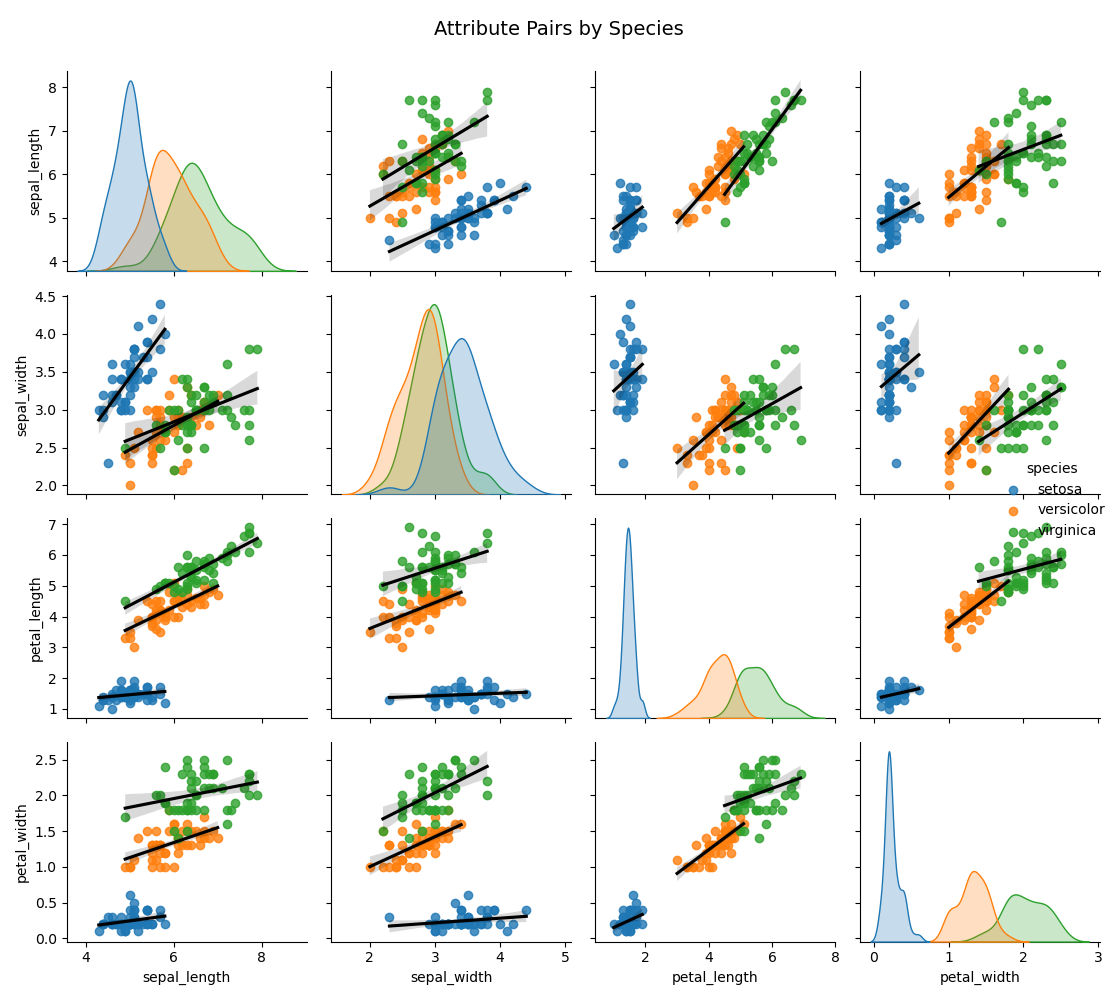
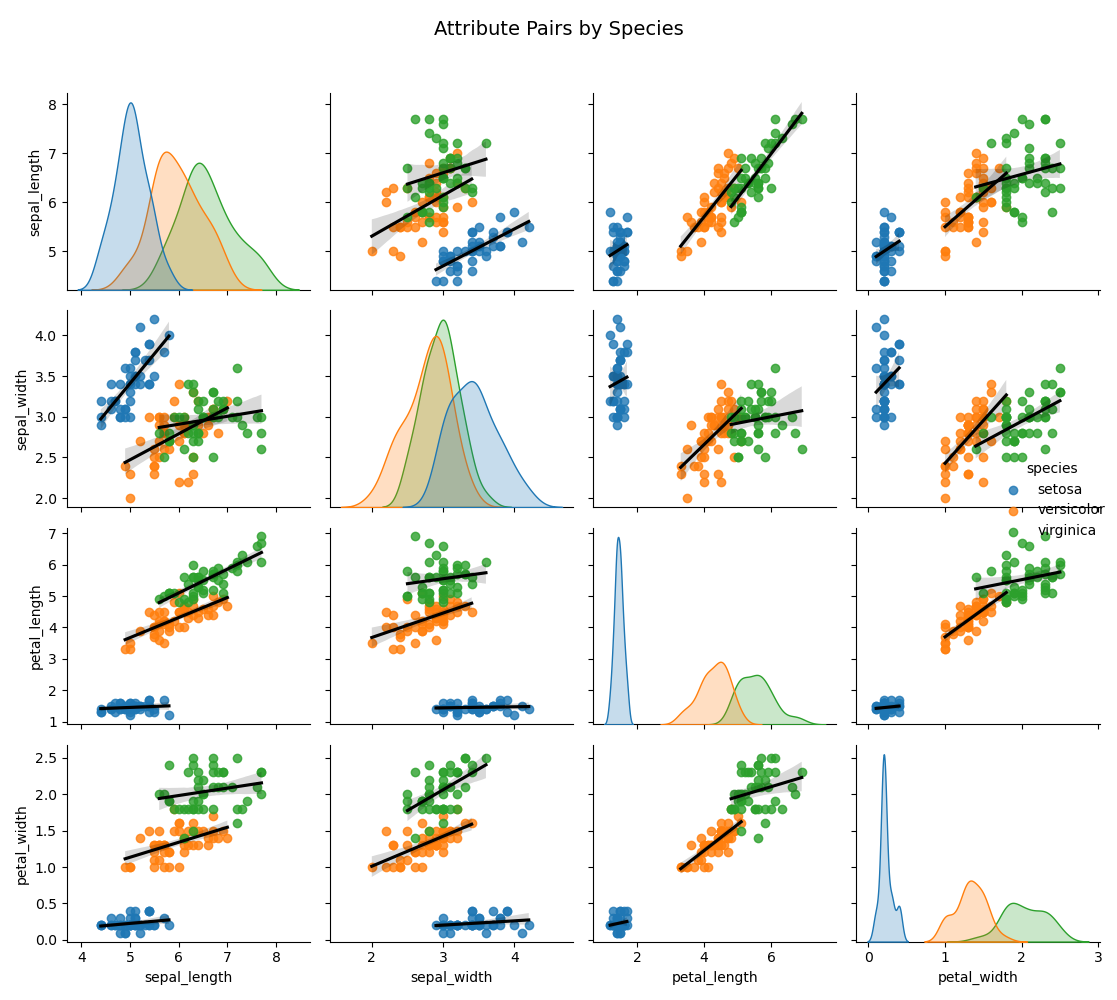
Apply helpers.save_plot() to plot functions.

diff --git a/tools.py b/tools.py
@@ -338,15 +338,14 @@ def outliers_cleanup(df):
     # Drop outliers from the original df
     df = df.drop(index=outlier_indices)
     
-
-    # III.
+    # IV.
     # Run 'save_csv_file' function to save the cleaned DataFrame as a CSV file
     file_path = helpers.save_csv_file('results', 'II.dataframe_cleaned.csv', df)
     
     # Display message box with "OK" and "Cancel" buttons
     response = messagebox.askokcancel("Outliers cleanup", "A CSV file containing the Iris dataset without outliers will be saved in the results directory. Please click OK to open the file.")
 
-    # IV.
+    # V.
     # If response is True save & open the CSV file, otherwise just save the CSV
     if response:
         file_path
@@ -423,27 +422,28 @@ def generate_histogram(df):
     plt.tight_layout()
 
     # III.
-    # Specify folder in which PNG should be saved
-    folder = 'results'
-    file_name = 'IV.histograms.png'
-    file_path = os.path.join(os.getcwd(), folder, file_name)
-
-    # Save plot
-    fig.savefig(fname=file_path)      
-
-    # IV. 
+    # Call 'save_csv_file' function from helpers.py module to save the plot as a PNG
+    file_path = helpers.save_plot('results', 'IV.histograms.png', fig)
+    
     # Display message box with "OK" and "Cancel" buttons
     response = messagebox.askokcancel("Generate histograms", "A histogram of each variable will be plotted and saved in the results directory. Please click OK to open the file.")
 
-    # If response is True open the file, otherwise do nothing
+    # IV.
+    # If response is True save & open the PNG, otherwise just save the PNG
     if response:
-        fig.show()
+        file_path
+        print(f"\tPlot saved as PNG.")
+        plt.show()
         print(f"\tUser opened the plot.")
     else:
+        file_path
+        print(f"\tPlot saved as PNG")
         print(f"\tUser closed the pop-up.")
     
     # https://stackoverflow.com/questions/16676101/print-the-approval-sign-check-mark-u2713-in-python
     print("\n\t\u2713 Histogram function successfully finished.")
+
+
 
 def generate_histogram_options(df,df_cleaned):
 
@@ -469,33 +469,39 @@ def generate_pairplot(df):
     '''
 
     # I.
+    print(f"Starting {__name__}/generate_pairplot()")
+
     # Plot a pairplot to analyse the interaction between the different variables
     # https://python-charts.com/correlation/pairs-plot-seaborn/
     sns.pairplot(df, hue="species", corner=False, kind="reg", plot_kws={'line_kws':{'color':'black'}})
 
     # Adjust layout & set subplot suptitle
-    plt.suptitle("Attribute Pairs by Species\n", fontsize=14)
+    plt.suptitle("Attribute Pairs by Species\n\n", fontsize=14)
     plt.tight_layout()
 
+    print(f"\tHistograms have been computed.")
+
     # II.
-    # Specify folder in which PNG should be saved
-    folder = 'results'
-    file_name = 'III.pairplot.png'
-    file_path = os.path.join(os.getcwd(), folder, file_name)
-
-    # Save plot
-    plt.savefig(fname=file_path)      
-
-    # III. 
+    # Call 'save_plot' function from helpers.py module to save the plot as a PNG
+    save_plot = helpers.save_plot('results', 'III.pairplot.png', plt)
+    
     # Display message box with "OK" and "Cancel" buttons
     response = messagebox.askokcancel("Generate pair scatter plot", "A scatter plot of each pair of variables will be created and saved in the results directory. Please click OK to open the file.")
 
-    # If response is True open the file, otherwise do nothing
+    # III.
+    # If response is True save & open the PNG, otherwise just save the PNG
     if response:
+        save_plot
+        print(f"\tPlot saved as PNG.")
         plt.show()
         print(f"\tUser opened the plot.")
     else:
+        save_plot
+        print(f"\tPlot saved as PNG")
         print(f"\tUser closed the pop-up.")
+    
+    # https://stackoverflow.com/questions/16676101/print-the-approval-sign-check-mark-u2713-in-python
+    print("\n\t\u2713 Pairplot function successfully finished.")
 
 def generate_pairplot_options(df,df_cleaned):
 
@@ -563,6 +569,7 @@ def perform_PCA(df):
     # Create new DataFrame with the variables created by sklearn when computing the PCA
     pca_df = pd.DataFrame(data=principal_components, columns=['PCA_1', 'PCA_2'])
     pca_df = pd.concat([pca_df, df[['species']]], axis=1)
+    print(f"\PCA has been computed & stored in a DataFrame.")
 
     # IV. 
     # Visualize the PCA result
@@ -588,25 +595,30 @@ def perform_PCA(df):
     plt.ylabel('Principal Component #2')
     plt.title('Principal Component Analysis with 2 Elements\n')
 
-    # V.
-    # Specify folder in which PNG should be saved
-    folder = 'results'
-    file_name = 'V.PCA.png'
-    file_path = os.path.join(os.getcwd(), folder, file_name)
+    print(f"\tHistograms have been computed.")
 
-    # Save plot
-    plt.savefig(fname=file_path)      
-
-    # VI. 
+    # II.
+    # Call 'save_plot' function from helpers.py module to save the plot as a PNG
+    file_path = helpers.save_plot('results', 'V.PCA.png', plt)
+    
     # Display message box with "OK" and "Cancel" buttons
     response = messagebox.askokcancel("Principal Componenent Analysis", "A scatter plot of the computed PCA will be created and saved in the results directory. Please click OK to open the file.")
 
-    # If response is True open the file, otherwise do nothing
+    # III.
+    # If response is True save & open the PNG, otherwise just save the PNG
     if response:
+        file_path
+        print(f"\tPlot saved as PNG.")
         plt.show()
         print(f"\tUser opened the plot.")
     else:
+        file_path
+        print(f"\tPlot saved as PNG")
         print(f"\tUser closed the pop-up.")
+    
+    # https://stackoverflow.com/questions/16676101/print-the-approval-sign-check-mark-u2713-in-python
+    print("\n\t\u2713 Pairplot function successfully finished.")
+
 
 def perform_PCA_options(df,df_cleaned):
 

diff --git a/helpers.py b/helpers.py
@@ -11,13 +11,13 @@ def save_text_file(folder, file_name, content):
     Therefore, to keep the repository nicely organised, we specify the folder where the file should be saved. As the program is meant to be ran on different
     machines, the os module is used to construct a full path, as a hardcoded absolute path would throw an error.  Also, the file_path makes use of os.path.join 
     to ensure compatibility across different operating systems. 
-    After saving the file, it returns the its path so that the file can be manipulated.
+    After saving the file, it returns its path so that the file can be manipulated.
     
     https://docs.python.org/3/library/functions.html#open
     https://stackoverflow.com/questions/72626730/python-launch-text-file-in-users-default-text-editor
     https://docs.python.org/3/library/os.path.html
     '''
-    
+
     folder = folder
     file_name = file_name
     file_path = os.path.join(os.getcwd(), folder, file_name)
@@ -26,7 +26,17 @@ def save_text_file(folder, file_name, content):
 
     return file_path
 
+
 def save_csv_file(folder, file_name, df):
+    '''
+    This function saves a DataFrame as a CSV file with pandas to_csv(). To keep the repository nicely organised, we specify the folder where the file should be saved. 
+    Also, as the program is meant to be ran on different machines, the os module is used to construct a full path, as a hardcoded absolute path would throw an error.  
+    The file_path makes use of os.path.join to ensure compatibility across different operating systems. 
+    After saving the file, it returns its path so that the function can be called by the "options" functions and not be empty.
+    https://stackoverflow.com/questions/72626730/python-launch-text-file-in-users-default-text-editor
+    https://docs.python.org/3/library/os.path.html
+    '''
+
     folder = folder
     file_name = file_name    
     file_path = os.path.join(os.getcwd(), folder, file_name)
@@ -34,10 +44,18 @@ def save_csv_file(folder, file_name, df):
     
     return file_path
 
+
 def save_plot(folder, file_name, fig):
+    '''
+    This function saves plots as PNG files with matplotlib savefid(). To keep the repository nicely organised, we specify the folder where the file should be saved. 
+    Also, as the program is meant to be ran on different machines, the os module is used to construct a full path, as a hardcoded absolute path would throw an error.  
+    The file_path makes use of os.path.join to ensure compatibility across different operating systems. 
+    After saving the file, it returns its path so that it can be maniputed in other parts of the code.
+    https://stackoverflow.com/questions/72626730/python-launch-text-file-in-users-default-text-editor
+    https://docs.python.org/3/library/os.path.html
+    '''
+
     folder = folder
     file_name = file_name    
     file_path = os.path.join(os.getcwd(), folder, file_name)
     fig.savefig(fname=file_path)
-    
-    return file_path
